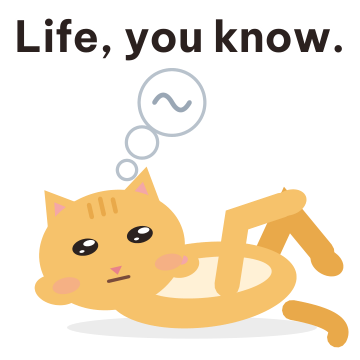
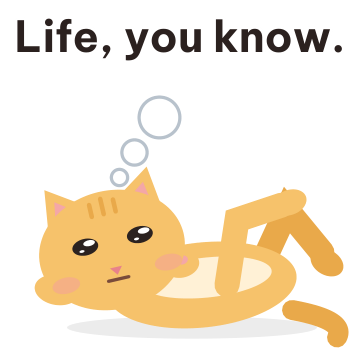
Sticker 03: smaller bubbles with clear gaps, no wavy line

Changed region(s): [[0.3056, 0.1833, 0.5806, 0.5194]]

diff --git a/docs/plans/assets/stickers/build_stickers.py b/docs/plans/assets/stickers/build_stickers.py
@@ -241,13 +241,12 @@ def wrap(inner, x, y, s):
 
 # ---- sticker-only art (not in the app): the lounging cat (3), the curled-up sleeper (9), the rain (10), confetti (7) ----
 def thought_bubble():
-    """A thought bubble drawn as three round bubbles that grow as they rise from the head, a wavy line in the biggest one:
-    vague, drifting thoughts."""
+    """A thought bubble drawn as three round bubbles that grow as they rise from the head, with a clear gap between them:
+    vague, drifting thoughts (the biggest one is left empty)."""
     grey, white = "#b8c2cc", "#ffffff"
-    circles = ((38, 52, 3.2), (44, 41, 5.6), (56, 25, 12.5))
+    circles = ((35, 55, 2.6), (41, 45, 4.4), (51, 31, 7.5))
     o = "".join(f'<circle cx="{x}" cy="{y}" r="{r + 1.3}" fill="{grey}"/>' for x, y, r in circles)
     o += "".join(f'<circle cx="{x}" cy="{y}" r="{r}" fill="{white}"/>' for x, y, r in circles)
-    o += stroke_path("M49 25 q3.5 -6 7 0 t7 0", "#9aa7b5", 1.9)
     return o
 
 

diff --git a/docs/plans/sticker-set-v0.md b/docs/plans/sticker-set-v0.md
@@ -31,6 +31,8 @@ All 15 stickers, the icon, the preview and the 9 banners exist as PNG in [`asset
 
 **Third pass (2026-11-11):** the six stickers that looked alike at 120 px now differ by silhouette or gesture: 05 sits and puffs, 08 beckons with a raised paw, 14 rests a paw on the chin under a thought bubble, 15 giggles behind a paw, 16 claps slowly, 17 turns side-on (see [`six_distinct.png`](assets/stickers/direction-v1/six_distinct.png)); 03 lost its thought dots. The paws and arcs are sticker art, not rig poses.
 
+**Sticker 03, third look (2026-11-11, the author):** the three bubbles are smaller with clear gaps and no wavy line inside.
+
 **Sticker 03, again (2026-11-11, the author):** the bubble is three round bubbles that grow as they rise, with a wavy line in the biggest (not a cloud), and the English and Japanese texts are "Life, you know." and "人生ってさ。".
 
 **Sticker 03 (2026-11-11, the author):** the Vietnamese text is now "Cuộc sống mà." and the cat has a hazy thought bubble (a cloud with a wavy line inside); `set-v1` was rebuilt.

diff --git a/docs/decisions/0050-sticker-second-pass-sarcasm-lounging-and-mochi-sleep.md b/docs/decisions/0050-sticker-second-pass-sarcasm-lounging-and-mochi-sleep.md
@@ -38,6 +38,9 @@ The text of sticker 03 changed from "Đời là thế." to **"Cuộc sống mà.
 ## Later the same day (8)
 The thought bubble of sticker 03 is drawn as **three round bubbles growing as they rise from the head, with a wavy line in the biggest** (not a cloud). The English and Japanese lines were changed to match the Vietnamese "Cuộc sống mà.": **"Life, you know."** and **"人生ってさ。"** (AI-written, not read by a native speaker: V-99).
 
+## Later the same day (9)
+The three bubbles of sticker 03 were made smaller with a clear gap between them (the biggest was too large and touched the middle one), and the wavy line inside was removed (it meant nothing to the author); the biggest bubble is left empty.
+
 ## Consequences
 - Spec 06 section 7 and the set list are updated: 16 are in the app (matched to a state) and the sticker-only art is now 03, 09 and the cloud of 10; the set is 17 stickers.
 - The sarcasm texts have not been through the author's ear for Vietnamese banter (backlog E3).
